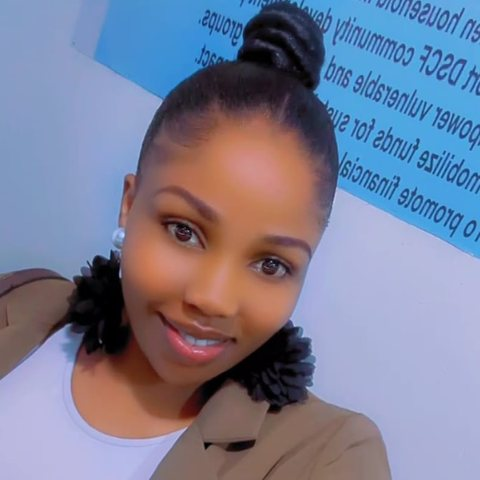
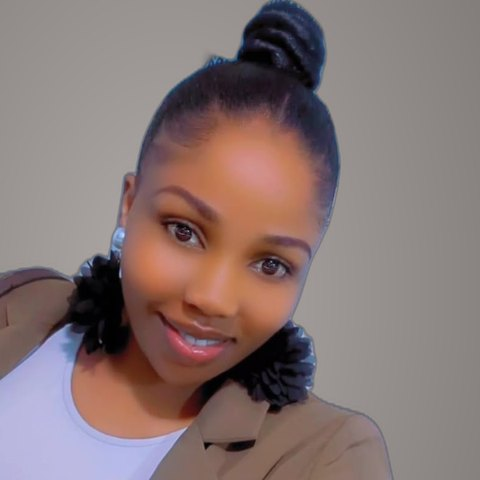
Asiimwe's portrait on a grey studio background to match Dorcas's
Claude-Session: https://claude.ai/code/session_01HswpQWKTVgsWT7bmcfN4Dz

diff --git a/about.html b/about.html
@@ -217,7 +217,7 @@
             <p class="team-member__bio">There is no part of the work she doesn&rsquo;t touch. She visits the communities herself, sitting with the mothers, children and elderly women the Foundation serves. She raises the funds that make every kit and food pack possible, and she sets the vision for where the Foundation goes next, all rooted in the call of Luke 10:37: &ldquo;Go and do likewise.&rdquo; Under her leadership, the Foundation has already reached more than 230 people across Kayunga and Wakiso, with plans to grow right across Uganda and beyond.</p>
           </div>
           <div id="foc" class="team-member reveal">
-            <div class="photo photo--circle"><img src="assets/images/team/asiimwe-circle.jpg" alt="Asiimwe, Field Operations Coordinator" loading="lazy"></div>
+            <div class="photo photo--circle"><img src="assets/images/team/asiimwe-circle.jpg?v=2" alt="Asiimwe, Field Operations Coordinator" loading="lazy"></div>
             <p class="team-member__name">Asiimwe</p>
             <p class="team-member__role">Field Operations Coordinator (FOC)</p>
             <p class="team-member__bio">Based on the ground in Uganda, Asiimwe is the heartbeat of the Foundation&rsquo;s day-to-day operations. She travels into the communities every month, identifying families in need, distributing supplies and ensuring that every kit, food pack and resource reaches the people it was intended for.</p>
